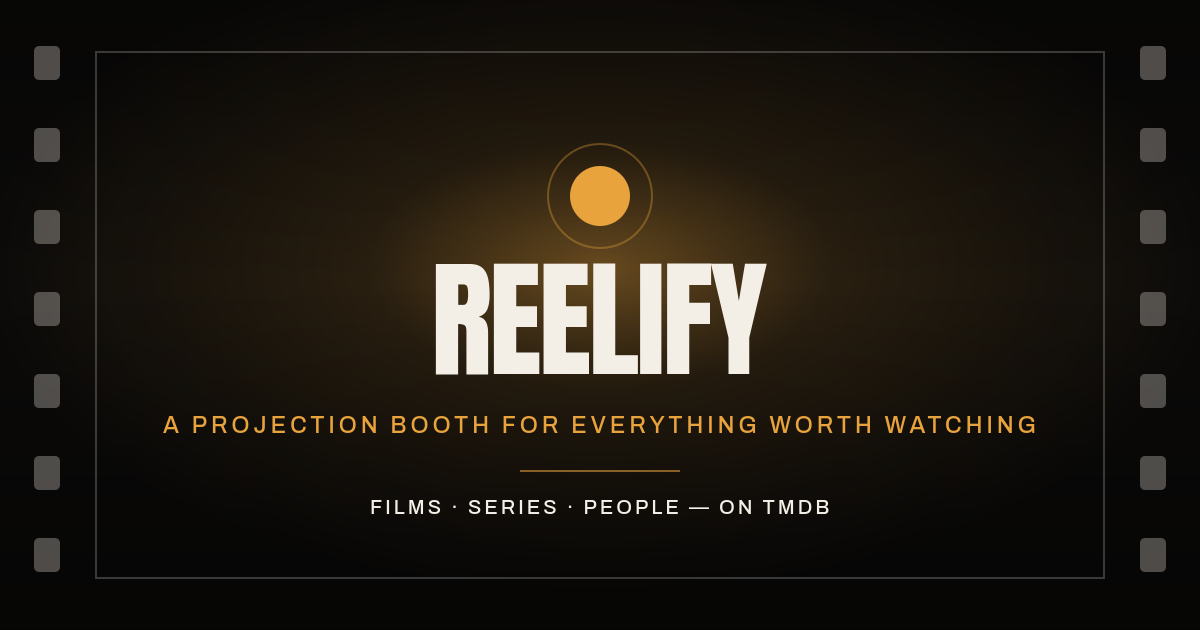
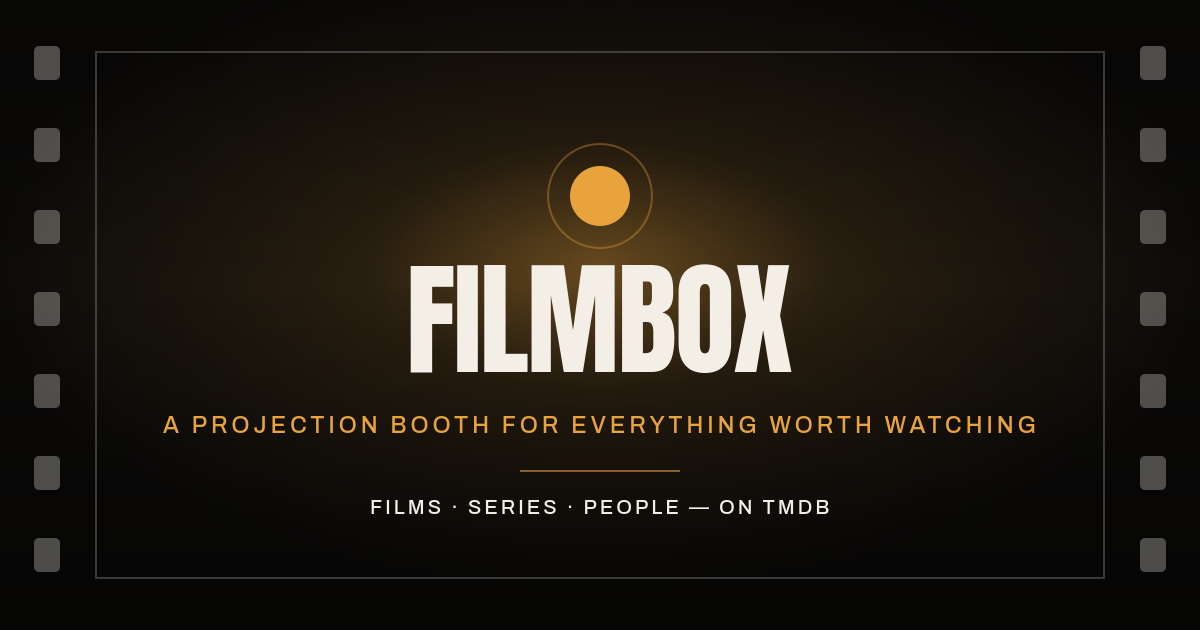
Rename the app from Reelify to FilmBox
"-ify" dated the name and the Arabic was a meaningless transliteration
of an English coinage. FilmBox says what it is in one breath, and the
existing logo mark — a film frame with sprocket holes — already draws a
box, so the mark did not need redrawing.

Arabic is "فيلم بوكس"; "فيلم" is a real loanword there, so the Arabic
side reads as a name rather than as phonetics.

Renames the persisted localStorage keys too (filmbox-theme/-language/
-watchlist). Nothing is deployed yet, so no stored preference is
stranded by that.

Changed region(s): [[0.3392, 0.3921, 0.6783, 0.6032]]

diff --git a/index.html b/index.html
@@ -3,24 +3,24 @@
   <head>
     <meta charset="UTF-8" />
     <meta name="viewport" content="width=device-width, initial-scale=1.0" />
-    <title>Reelify — a projection booth for everything worth watching</title>
+    <title>FilmBox — a projection booth for everything worth watching</title>
     <meta
       name="description"
       content="Browse films and series, watch trailers, and follow the people who make them. Powered by TMDB."
     />
     <meta name="theme-color" content="#0B0A09" media="(prefers-color-scheme: dark)" />
     <meta name="theme-color" content="#F4F0E7" media="(prefers-color-scheme: light)" />
-    <meta property="og:title" content="Reelify" />
+    <meta property="og:title" content="FilmBox" />
     <meta property="og:description" content="A projection booth for everything worth watching." />
-    <meta property="og:image" content="https://reelify.altayeb.dev/og-image.png" />
-    <meta property="og:url" content="https://reelify.altayeb.dev/" />
-    <meta property="og:site_name" content="Reelify" />
+    <meta property="og:image" content="https://filmbox.altayeb.dev/og-image.png" />
+    <meta property="og:url" content="https://filmbox.altayeb.dev/" />
+    <meta property="og:site_name" content="FilmBox" />
     <meta property="og:type" content="website" />
     <meta name="twitter:card" content="summary_large_image" />
-    <meta name="twitter:title" content="Reelify" />
+    <meta name="twitter:title" content="FilmBox" />
     <meta name="twitter:description" content="A projection booth for everything worth watching." />
-    <meta name="twitter:image" content="https://reelify.altayeb.dev/og-image.png" />
-    <link rel="canonical" href="https://reelify.altayeb.dev/" />
+    <meta name="twitter:image" content="https://filmbox.altayeb.dev/og-image.png" />
+    <link rel="canonical" href="https://filmbox.altayeb.dev/" />
     <link rel="icon" type="image/svg+xml" href="/favicon.svg" />
     <link rel="apple-touch-icon" href="/apple-touch-icon.png" />
     <link rel="manifest" href="/site.webmanifest" />
@@ -33,12 +33,12 @@
       // React store alone flashes the wrong theme on every reload.
       (function () {
         try {
-          var theme = JSON.parse(localStorage.getItem("reelify-theme") || "{}").state?.theme || "dark";
+          var theme = JSON.parse(localStorage.getItem("filmbox-theme") || "{}").state?.theme || "dark";
           var light = theme === "light" || (theme === "system" && matchMedia("(prefers-color-scheme: light)").matches);
           document.documentElement.classList.toggle("light", light);
           document.documentElement.setAttribute("data-theme", light ? "light" : "dark");
 
-          var lang = JSON.parse(localStorage.getItem("reelify-language") || "{}").state?.language || "en";
+          var lang = JSON.parse(localStorage.getItem("filmbox-language") || "{}").state?.language || "en";
           document.documentElement.setAttribute("lang", lang);
           document.documentElement.setAttribute("dir", lang === "ar" ? "rtl" : "ltr");
         } catch (e) {}

diff --git a/src/lib/language.ts b/src/lib/language.ts
@@ -4,7 +4,7 @@ import { persist } from "zustand/middleware";
 export type Language = "en" | "ar";
 
 const en = {
-  brand: "Reelify",
+  brand: "FilmBox",
   tagline: "A projection booth for everything worth watching",
 
   home: "Home",
@@ -130,7 +130,7 @@ const en = {
 type Dict = typeof en;
 
 const ar: Record<keyof Dict, string> = {
-  brand: "ريلِفاي",
+  brand: "فيلم بوكس",
   tagline: "غرفة عرض لكل ما يستحق المشاهدة",
 
   home: "الرئيسية",
@@ -278,7 +278,7 @@ export const useLanguageStore = create<LanguageState>()(
       },
     }),
     {
-      name: "reelify-language",
+      name: "filmbox-language",
       onRehydrateStorage: () => (state) => {
         if (state) applyDocumentLanguage(state.language);
       },

diff --git a/src/lib/preferences.ts b/src/lib/preferences.ts
@@ -31,7 +31,7 @@ export const useThemeStore = create<ThemeState>()(
       },
     }),
     {
-      name: "reelify-theme",
+      name: "filmbox-theme",
       onRehydrateStorage: () => (state) => applyTheme(state?.theme ?? "dark"),
     },
   ),
@@ -74,6 +74,6 @@ export const useWatchlist = create<WatchlistState>()(
       has: (mediaType, id) =>
         get().items.some((i) => i.id === id && i.mediaType === mediaType),
     }),
-    { name: "reelify-watchlist" },
+    { name: "filmbox-watchlist" },
   ),
 );

diff --git a/.tastemaker/style-lock.md b/.tastemaker/style-lock.md
@@ -1,4 +1,4 @@
-# Reelify — style lock
+# FilmBox — style lock
 
 Direction: **Projection** (Cinema Noir / Projector). Chosen by the user from three
 options on 2026-09-03. Every later screen reuses these tokens rather than
@@ -50,7 +50,7 @@ surface/primary **5.45**, muted-fg/bg **5.36**.
 within the same hue family until it cleared the text floor, per the lock rule.
 
 Toggle: real three-state control (dark / light / system), persisted in
-`reelify-theme` and applied by an inline script before first paint.
+`filmbox-theme` and applied by an inline script before first paint.
 
 ## Type
 

diff --git a/README.md b/README.md
@@ -1,4 +1,4 @@
-# Reelify
+# FilmBox
 
 A projection booth for everything worth watching. Browse films and series, watch
 trailers, follow the people who make them — on the TMDB API.
